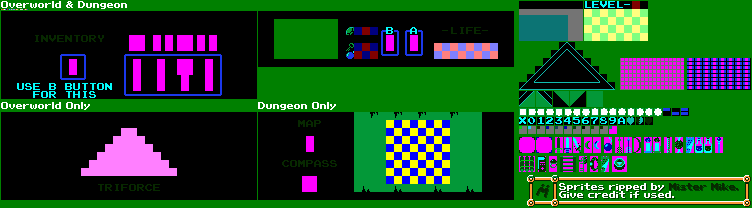
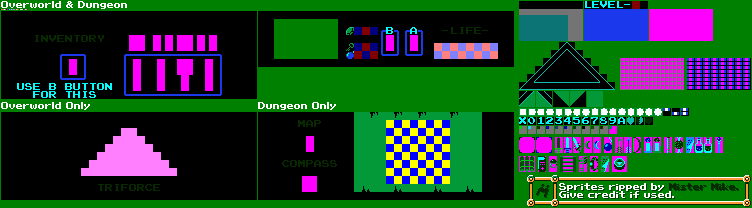
Fix HUD

Changed region(s): [[0.7646, 0.0288, 0.9481, 0.2019], [0.887, 0.5192, 0.9176, 0.5481]]

diff --git a/HUD/LowerHUD.cs b/HUD/LowerHUD.cs
@@ -31,6 +31,7 @@ namespace LegendOfZelda
         private AnimatedSprite WeponA;
         private AnimatedSprite WeponB;
         private AnimatedSprite LocationIndicator;
+        private AnimatedSprite NoMiniMapSprite;
         private List<AnimatedSprite> Rubies;
         private List<AnimatedSprite> Keys;
         private List<AnimatedSprite> Bombs;
@@ -105,6 +106,7 @@ namespace LegendOfZelda
             Keys = QuantityToSprite(KeysCount);
             Bombs = QuantityToSprite(BombsCount);
             LocationIndicator = spriteFactory.CreateMiniMapIndicatorSprite();
+            NoMiniMapSprite = spriteFactory.CreateNoMiniMapSprite();
             GetHealthSprite(CurrentHealth, MaxHealth);
 
             LowerHUDBasePos = GameState.CameraController.HUDLocation;
@@ -132,15 +134,15 @@ namespace LegendOfZelda
 
         public void Update(GameTime gameTime)
         {
+            link = GameState.Link;
             UpdateRubies();
             UpdateKeys();
             UpdateBoombs();
             UpdateHealth();
             UpdateSelectedItemSprite();
             UpdateMapUnlock();
-            RegisterIndicatorSprite(true);
-            //RegisterMiniMapSprite(true);
-            
+            RegisterIndicatorSprite(CompassUnlock);
+            RegisterMiniMapSprite(MapUnlock);
         }
 
         public void Show()
@@ -160,8 +162,6 @@ namespace LegendOfZelda
             RegisterListSprite(Bombs, BombsPos);
 
             RegisterLifeSprite(Life, LifePos);
-
-            RegisterMiniMapSprite(true);
         }
 
         public void CreateMiniMap()
@@ -237,15 +237,15 @@ namespace LegendOfZelda
             {
                 for (int i = 0; i < currentHealth / 2; i++)
                 {
-                   // Life[i] = spriteFactory.CreateHeartSprite(2);
+                   Life[i] = spriteFactory.CreateHeartSprite(2);
                 }
-                //Life[currentHealth / 2] = spriteFactory.CreateHeartSprite(1);
+                Life[currentHealth / 2] = spriteFactory.CreateHeartSprite(1);
             }
             else
             {
                 for (int i = 0; i < currentHealth / 2; i++)
                 {
-                    //Life[i] = spriteFactory.CreateHeartSprite(2);
+                    Life[i] = spriteFactory.CreateHeartSprite(2);
                 }
             }
         }
@@ -288,6 +288,7 @@ namespace LegendOfZelda
         {
             if (unlock)
             {
+                NoMiniMapSprite.UnregisterSprite();
                 foreach (KeyValuePair<AnimatedSprite, Vector2> element in MiniMap)
                 {
                     element.Key.RegisterSprite();
@@ -296,6 +297,9 @@ namespace LegendOfZelda
             }
             else
             {
+                Vector2 basePos = new Vector2(LevelIndicatorPos.X, LevelIndicatorPos.Y + 8 * scale);
+                NoMiniMapSprite.RegisterSprite();
+                NoMiniMapSprite.UpdatePos(basePos);
                 foreach (KeyValuePair<AnimatedSprite, Vector2> element in MiniMap)
                 {
                     element.Key.UnregisterSprite();

diff --git a/Graphics/SpriteFactory.cs b/Graphics/SpriteFactory.cs
@@ -1480,6 +1480,17 @@ namespace LegendOfZelda
             return newSprite;
         }
 
+        public AnimatedSprite CreateNoMiniMapSprite()
+        {
+            Rectangle[] frames = new Rectangle[1]
+            {
+                new Rectangle(649, 9, 64, 32)
+            };
+
+            AnimatedSprite newSprite = new AnimatedSprite(itemsTexture, frames, SpriteEffects.None, drawFramesPerAnimFrame, scale, true);
+            return newSprite;
+        }
+
         public AnimatedSprite CreateWoodenSwoardSprite()
         {
             Rectangle[] frames = new Rectangle[1]
@@ -1691,7 +1702,7 @@ namespace LegendOfZelda
         {
             Rectangle[] frames = new Rectangle[1]
             {
-                new Rectangle(528, 126, 8, 8)
+                new Rectangle(519, 126, 8, 8)
             };
 
             AnimatedSprite newSprite = new AnimatedSprite(HUDTexture, frames, SpriteEffects.None, drawFramesPerAnimFrame, scale, true);
@@ -1931,6 +1942,8 @@ namespace LegendOfZelda
             AnimatedSprite newSprite = new AnimatedSprite(itemsTexture, frames, SpriteEffects.None, drawFramesPerAnimFrame, scale, true);
             return newSprite;
         }
+
+        
 
         public AnimatedSprite CreateMainMenuSprite()
         {

diff --git a/GameState/ItemMenuState.cs b/GameState/ItemMenuState.cs
@@ -5,26 +5,22 @@ namespace LegendOfZelda
 {
     public class ItemMenuState : IGameState
     {
-        InventoryHUD inventoryHUD;
-        MapHUD mapHUD;
         public ItemMenuState()
         {
-            inventoryHUD = InventoryHUD.GetInstance();
-            
-            mapHUD = MapHUD.GetInstance();
         }
         public void Update(GameTime gameTime)
         {
-            inventoryHUD.Update(gameTime);
-            mapHUD.Update(gameTime);
+            GameState.inventoryHUD.Update(gameTime);
+            GameState.mapHUD.Update(gameTime);
             GameState.ItemMenuController.Update();
+            GameState.lowerHUD.Update(gameTime);
             CameraController.GetInstance().itemMenuCamera.Update(gameTime);
         }
         public void Draw(SpriteBatch _spriteBatch)
         {
             GameState.CameraController.Draw(_spriteBatch);
-            inventoryHUD.Show();
-            mapHUD.Show();
+            GameState.inventoryHUD.Show();
+            GameState.mapHUD.Show();
         }
     }
 }

diff --git a/GameState/NormalState.cs b/GameState/NormalState.cs
@@ -5,23 +5,24 @@ namespace LegendOfZelda
 {
     public class NormalState: IGameState
     {
-        LowerHUD lowerHUD;
         public NormalState()
         {
-            lowerHUD = LowerHUD.GetInstance();
         }
         public void Update(GameTime gameTime)
         {
             LevelManager.Update(gameTime);
-            lowerHUD.Update(gameTime);
+            GameState.lowerHUD.Update(gameTime);
             GameState.PlayerController.Update();
             GameState.CollisionManager.Update(gameTime);
             GameState.cheatCodeController.Update();
+            GameState.mapHUD.Update(gameTime);
+            //GameState.inventoryHUD.Update(gameTime);    
         }
-        public void Draw(SpriteBatch _spriteBatch)
+        public void Draw(SpriteBatch _spriteBatch) 
         {
             GameState.CameraController.Draw(_spriteBatch);
-            lowerHUD.Show();
+            GameState.lowerHUD.Show();
+            GameState.mapHUD.Show();
         }
     }
 }

diff --git a/GameState/GameState.cs b/GameState/GameState.cs
@@ -29,7 +29,7 @@ namespace LegendOfZelda
         {
             LevelMaster = LevelManager.GetInstance();
             CollisionManager = new CollisionManager();
-            LevelMaster.StartLevel("level2.json");
+            LevelMaster.StartLevel("level1.json");
             Link = new Link();
             LevelMaster.SnapToRoom(0);
             PauseManager = new PauseManager();
@@ -38,6 +38,8 @@ namespace LegendOfZelda
             RoomCycler.GetInstance();
             CameraController = CameraController.GetInstance();
             lowerHUD = LowerHUD.GetInstance();
+            inventoryHUD = InventoryHUD.GetInstance();
+            mapHUD = MapHUD.GetInstance();
             PlayerController = new PlayerController(Link);
             ItemMenuController = new ItemMenuController();
             cheatCodeController = new CheatCodeController();

diff --git a/HUD/HUDMapElement.cs b/HUD/HUDMapElement.cs
@@ -80,7 +80,8 @@ namespace LegendOfZelda
                         {  3, new Vector2(MiniMapHUDBasePos.X + 26 * scale, MiniMapHUDBasePos.Y + 24 * scale) },
                         {  1, new Vector2(MiniMapHUDBasePos.X + 26 * scale, MiniMapHUDBasePos.Y + 28 * scale) },
                         {  2, new Vector2(MiniMapHUDBasePos.X + 34 * scale, MiniMapHUDBasePos.Y + 28 * scale) },
-                        { 19, new Vector2(MiniMapHUDBasePos.X, MiniMapHUDBasePos.Y) }
+                        { 19, new Vector2(MiniMapHUDBasePos.X, MiniMapHUDBasePos.Y) },
+                        { 18, new Vector2(MiniMapHUDBasePos.X, MiniMapHUDBasePos.Y) }
                     };
                     break;
             }

diff --git a/HUD/MapHUD.cs b/HUD/MapHUD.cs
@@ -66,7 +66,6 @@ namespace LegendOfZelda
             IndicatorPosDic = mapElement.GetMapIndicator(1);
             CreateMapElement();
 
-            // The below values are for test now, should be changed later
             MapUnlock = false;
             CompassUnlock = false;
         }
@@ -83,7 +82,7 @@ namespace LegendOfZelda
         {
             UpdateMapUnlock();
             UpdateCompassUnlock();
-            RegisterIndicatorSprite(true);
+            RegisterIndicatorSprite(CompassUnlock);
         }
 
         public void Show()

diff --git a/GameState/GameOverState.cs b/GameState/GameOverState.cs
@@ -19,6 +19,7 @@ namespace LegendOfZelda
         {
             gameOver.Update(gameTime);
             GameState.Link.Update(gameTime);
+            GameState.lowerHUD.Update(gameTime);
             if (gameOver.done == true)
             {
                 controller.Update();

diff --git a/HUD/InventoryHUD.cs b/HUD/InventoryHUD.cs
@@ -58,6 +58,7 @@ namespace LegendOfZelda
             CreateIItemToString();
             CreateItemStringDict();
             CreateItemDict();
+            //Selector = Selector.GetInstance();
         }
 
         public static InventoryHUD GetInstance()
